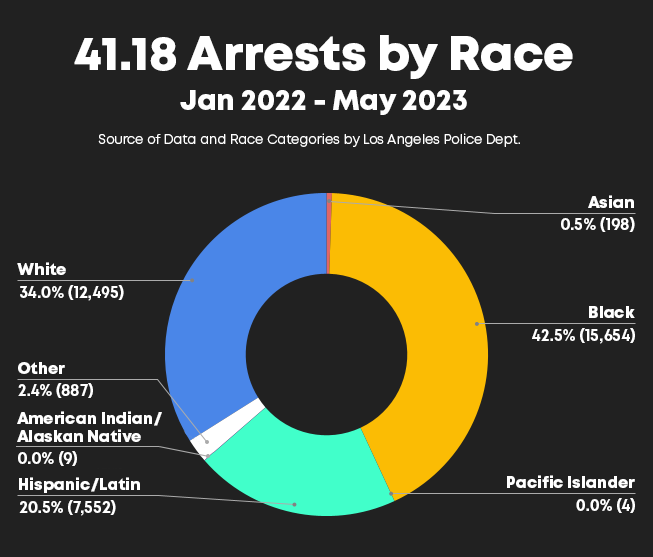
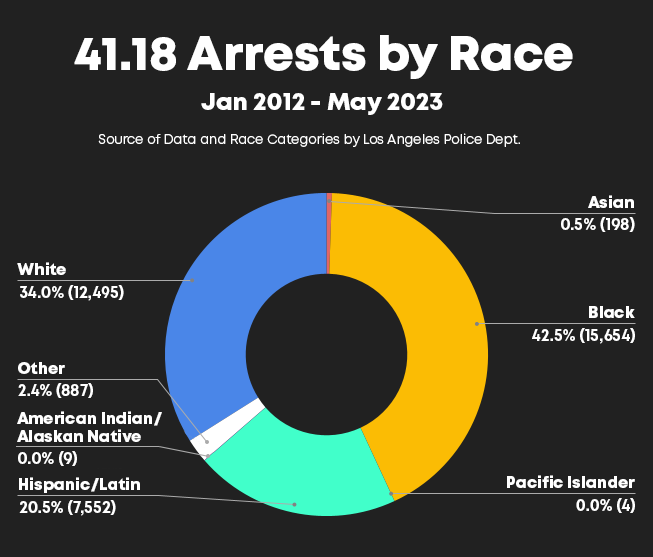
updated 4118 landing page

Changed region(s): [[0.2757, 0.1526, 0.7351, 0.2136]]

diff --git a/src/pages/landings/4118.tsx b/src/pages/landings/4118.tsx
@@ -40,9 +40,11 @@ export default function Data(props: any) {
 
  
           <center>
-  <a href="https://4118arrests.lacontroller.io" target="_blank" rel="noopener noreferrer">
-    <img src="/images/4118/main.png" width="600" height="500" alt="An image of the map. It shows Los Angeles with borders dividing each Council District. A filter allows users to filter by Race, Year, CD#, Arrest, and Time." />
-  </a>
+<a href="https://4118arrests.lacontroller.io" target="_blank" rel="noopener noreferrer">
+  <img src="/images/4118/year-animated-gif.gif" width="400" height="600" alt="An animated gif of each year of the map, from 2012-2022, along with percentages of arrests by race. For 2012-2018, there are a lot more total arrests and they are most concentrated in Downtown LA, Hollywood, and Venice. For 2019-2022, total arrests are down from previous years.  For 2012-2017, the percentage of those arrested who are Black is always between 40 to 50%. In 2018 the percentage of those arrested who are Black goes down each year. By 2022 Black people make up 19% of those arrested. From 2012-2017, White people make up about 30% of those arrested each year. Starting in 2018, White people makeup about 40% of those arrested each year. Hispanic/Latin people make up between 15-25% of those arrested each year from 2012-2019, and then arrests start rising in 2020 - they make up 38% of those arrested in 2022. 
+  The areas that are most concentrated with the highest total arrests vary - in 2019 Skid Row and Venice have higher arrests. In 2020 Venice has higher arrests. In 2019 and 2020, West Los Angeles has higher arrests. In 2020, Chatsworth and Westlake-MacArthur Park have higher arrests too. 
+  The Source of Data is LAPD." />  
+  </a> 
 </center>
 
 </div>
@@ -246,7 +248,8 @@ export default function Data(props: any) {
 </div></center>
 
 <br></br>
-<center><hr style={{height: "2px", width: "50%"}}></hr></center>
+
+{/* <center><hr style={{height: "2px", width: "50%"}}></hr></center>
 <br></br>
 <center><h1 className=' dark:text-white' style={{ fontFamily: "Helvetica"  }}><b>2012</b></h1></center>
 <br></br>
@@ -325,7 +328,7 @@ export default function Data(props: any) {
 <center>
   <img src="/images/4118/2022.png" width="400" height="600" alt=" A graphic showing the map filtered to show 2022 only. Total Arrests: 853. Arrests are most concentrated in Chatsworth, Westlake-MacArthur Park, and West Los Angeles. Data Source is LAPD" />
 </center>
-<center><hr style={{height: "2px", width: "50%"}}></hr></center>
+<center><hr style={{height: "2px", width: "50%"}}></hr></center> */}
     </>
   );
 }
